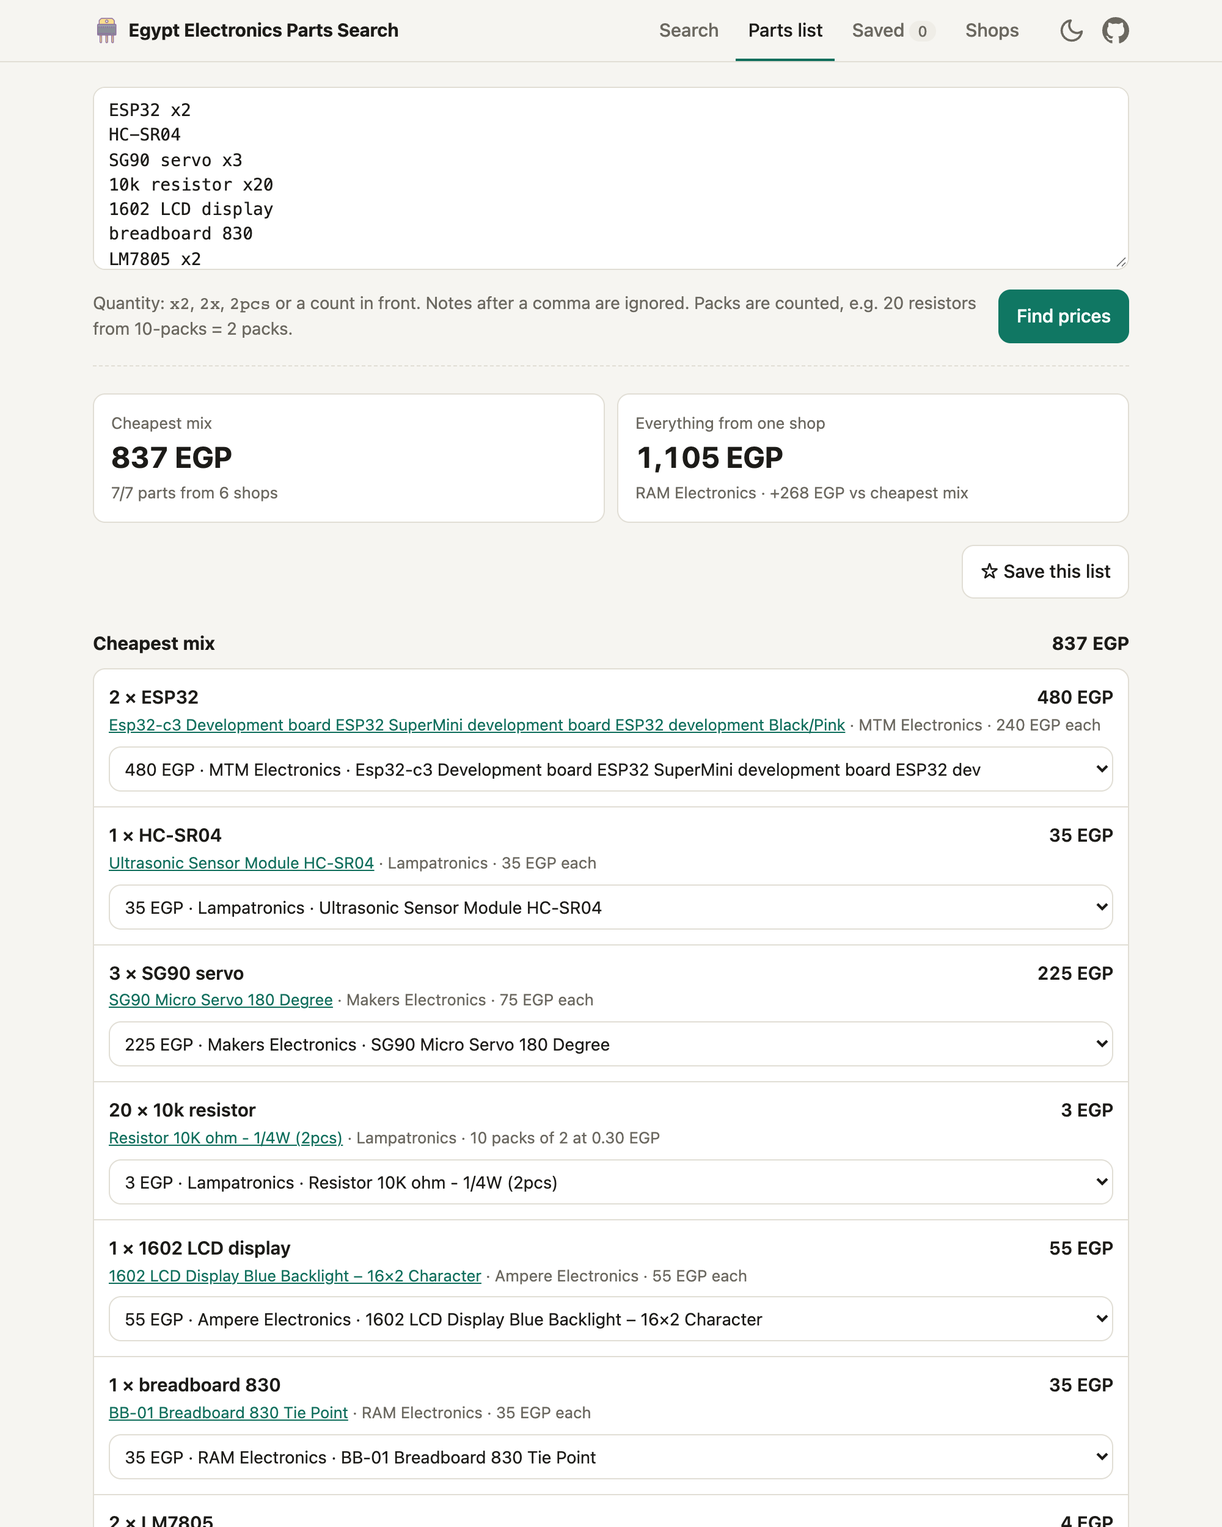
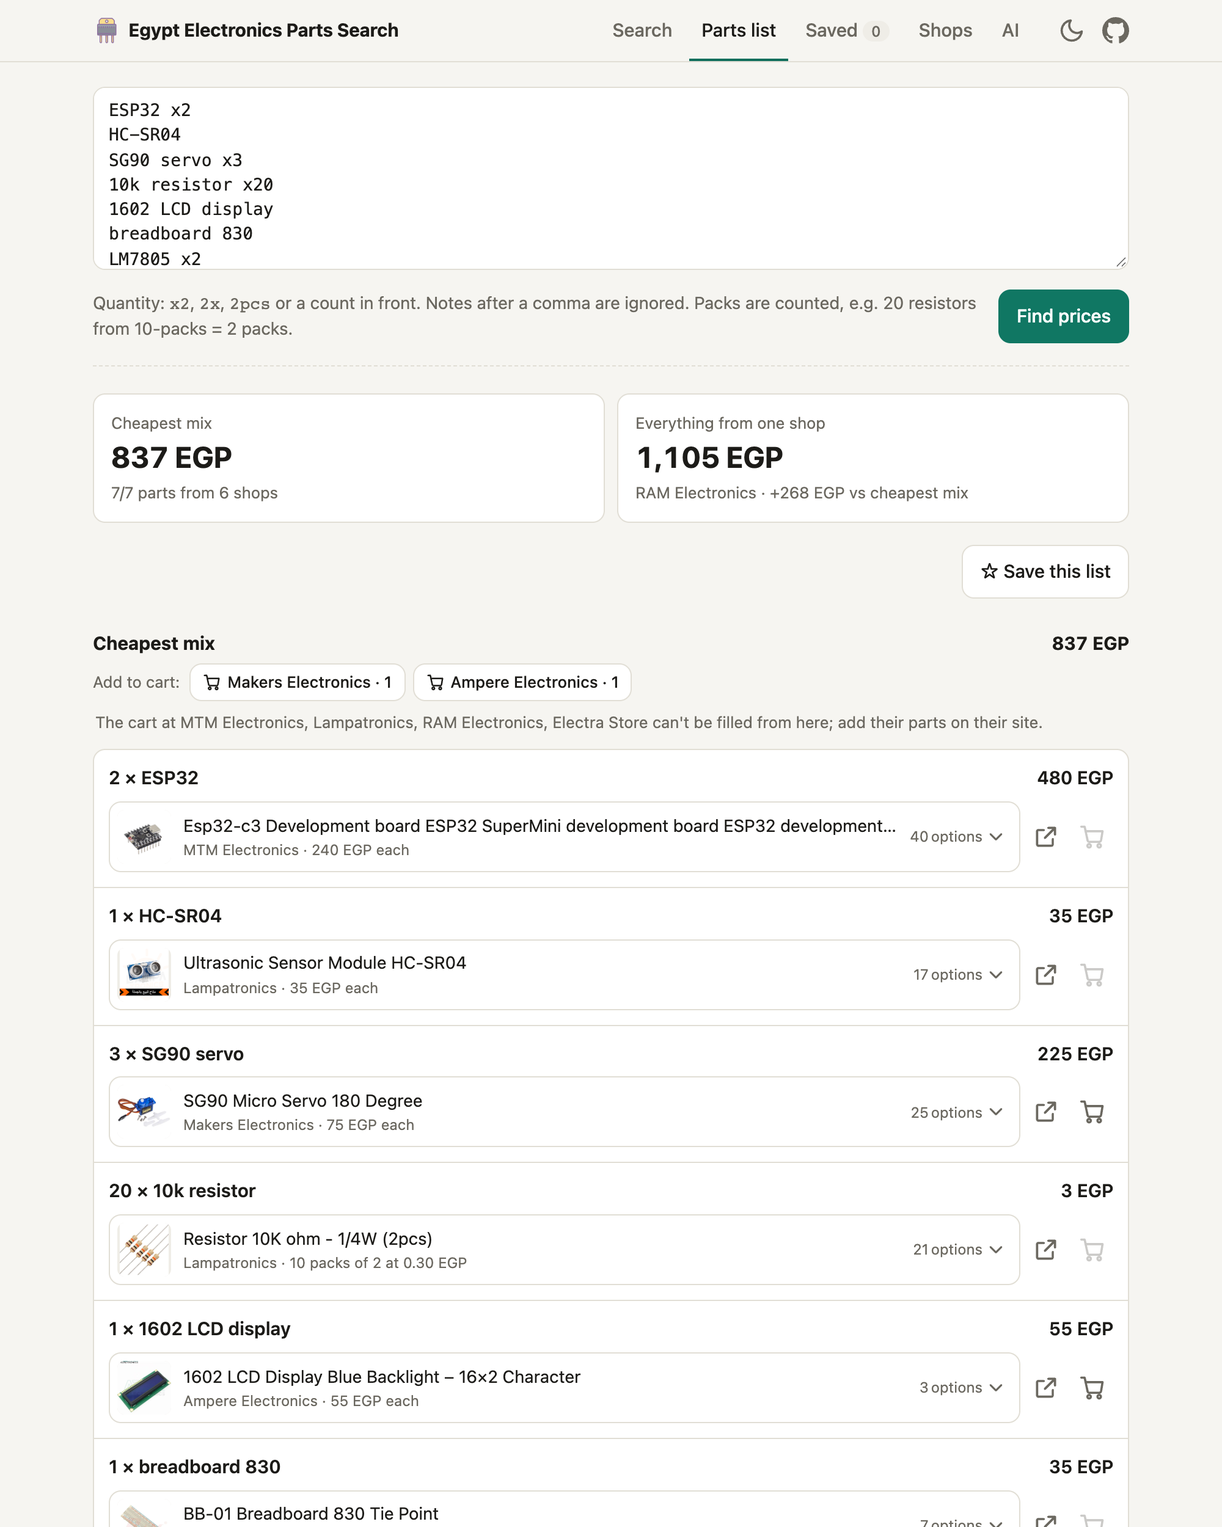
Parts list: a searchable product picker with pictures and costs, and a cart button on each line; retake the screenshots

diff --git a/src/index.html b/src/index.html
@@ -328,6 +328,8 @@
   .cart-bar .btn, .cart-cell .btn { display: inline-flex; align-items: center; gap: 5px; white-space: nowrap; }
   td.cart-cell { width: 1%; padding: 5px 8px; }
   .cart-note:empty { display: none; }
+  .mix-cart { margin-bottom: 12px; }
+  .mix-cart .cart-bar { margin-bottom: 0; }
   h2.with-copy { display: flex; align-items: center; gap: 4px; margin: 0; color: var(--text); font-size: 15px; }
   h2.with-copy .icon-btn { padding: 4px; }
   h2.with-copy .icon-btn svg { width: 18px; height: 18px; }
@@ -364,7 +366,49 @@
   .line-head { display: flex; gap: 8px; align-items: baseline; justify-content: space-between; }
   .line-head .q { font-weight: 600; }
   .line-head .cost { font-variant-numeric: tabular-nums; font-weight: 600; white-space: nowrap; }
-  .line select { width: 100%; margin-top: 8px; padding: 8px; font-size: 14px; }
+  .icon-btn.cart-off { position: relative; cursor: default; }
+  .icon-btn.cart-off svg { opacity: .35; }
+  .icon-btn.cart-off:hover { background: none; color: var(--muted); }
+  /* a tooltip above the button, kept inside the card by lining up on the right */
+  [data-tip]:hover::after, [data-tip]:focus-visible::after {
+    content: attr(data-tip); position: absolute; bottom: calc(100% + 6px); right: 0; z-index: 7;
+    width: max-content; max-width: 240px; padding: 6px 9px; border-radius: 6px;
+    background: var(--text); color: var(--bg); font-size: 12px; line-height: 1.4; text-align: left; white-space: normal;
+    pointer-events: none;
+  }
+  .list:has([data-tip]:hover), .list:has([data-tip]:focus-visible) { overflow: visible; }
+  .choice-row { position: relative; display: flex; align-items: center; gap: 4px; margin-top: 8px; }
+  .choice {
+    flex: 1; min-width: 0; display: flex; align-items: center; gap: 10px; padding: 6px 10px 6px 6px;
+    border: 1px solid var(--border); border-radius: var(--radius); background: var(--surface); text-align: left; font-size: 14px;
+  }
+  button.choice { cursor: pointer; }
+  button.choice:hover, button.choice[aria-expanded="true"] { border-color: var(--accent); }
+  .choice .thumb { width: 44px; height: 44px; flex: none; border-radius: 6px; }
+  .choice-text { flex: 1; min-width: 0; display: flex; flex-direction: column; gap: 1px; }
+  .choice-name { overflow: hidden; text-overflow: ellipsis; white-space: nowrap; }
+  .choice-meta { color: var(--muted); font-size: 12px; }
+  .choice-more { flex: none; display: flex; align-items: center; gap: 2px; color: var(--muted); font-size: 12px; white-space: nowrap; }
+  .choice-more svg { width: 18px; height: 18px; transition: transform .15s; }
+  .choice[aria-expanded="true"] .choice-more svg { transform: rotate(180deg); }
+  .picker {
+    position: absolute; top: calc(100% + 4px); left: 0; right: 0; z-index: 4; padding: 8px;
+    background: var(--surface); border: 1px solid var(--border); border-radius: var(--radius);
+    box-shadow: 0 10px 30px rgba(0, 0, 0, .16);
+  }
+  .picker-search { width: 100%; padding: 8px 10px; font-size: 14px; }
+  .picker-list { max-height: min(380px, 55vh); overflow-y: auto; margin-top: 6px; overscroll-behavior: contain; }
+  .opt-group { padding: 8px 8px 4px; color: var(--muted); font-size: 11px; font-weight: 600; text-transform: uppercase; letter-spacing: .04em; }
+  .opt { display: grid; grid-template-columns: 40px minmax(0, 1fr) auto; gap: 10px; align-items: center; padding: 6px 8px; border-radius: 8px; cursor: pointer; }
+  .opt.active { background: var(--surface-2); }
+  .opt .thumb { width: 40px; height: 40px; border-radius: 6px; }
+  .opt-name { font-size: 14px; display: -webkit-box; -webkit-line-clamp: 2; -webkit-box-orient: vertical; overflow: hidden; }
+  .opt-meta { color: var(--muted); font-size: 12px; }
+  .opt-cost { text-align: right; white-space: nowrap; font-variant-numeric: tabular-nums; font-size: 14px; }
+  .opt-check { display: block; color: var(--accent); font-size: 12px; font-weight: 600; }
+  .opt[aria-selected="true"] .opt-cost b { color: var(--accent); }
+  .picker-empty { padding: 18px 8px; text-align: center; color: var(--muted); font-size: 14px; }
+  .list:has(.picker) { overflow: visible; }
   .line .meta a { color: var(--accent); }
 
   .shop-mark {
@@ -420,6 +464,7 @@
     header nav { order: 2; width: 100%; justify-content: space-between; overflow-x: auto; }
     nav a { padding-left: 6px; padding-right: 6px; }
     .row { grid-template-columns: 64px 1fr auto; gap: 10px; }
+    .choice-word { position: absolute; width: 1px; height: 1px; overflow: hidden; clip-path: inset(50%); }
     .thumb { width: 64px; height: 64px; }
   }
   @media (max-width: 360px) {
@@ -594,7 +639,7 @@ npm install</code></pre>
 </script>
 <script type="module">
 import { SHOPS, SHOPS_BY_KEY } from "./js/shops.js";
-import { searchAll, fetchShop, mergeShop, priceList, cheapestPicks, shopTotals, lineCost, packsNeeded, warmUp, getSaved, saveItem as storeItem, unsaveItem as storeUnsave, deleteItem, refreshItems, saveList as storeList, addToList, renameList, deleteList } from "./js/search.js";
+import { searchAll, fetchShop, mergeShop, priceList, cheapestPicks, isClose, shopTotals, lineCost, packsNeeded, warmUp, getSaved, saveItem as storeItem, unsaveItem as storeUnsave, deleteItem, refreshItems, saveList as storeList, addToList, renameList, deleteList } from "./js/search.js";
 
 const $ = (s, el = document) => el.querySelector(s);
 const esc = s => String(s ?? "").replace(/[&<>"']/g, c => ({ "&": "&amp;", "<": "&lt;", ">": "&gt;", '"': "&quot;", "'": "&#39;" }[c]));
@@ -1083,6 +1128,7 @@ const findable = () => listData.lines.filter(l => l.candidates.length).length;
 
 function renderList() {
   const out = $("#list-out");
+  picker = null; // redrawing removes an open picker
   const lines = listData.lines;
   let mixTotal = 0;
   const mixShops = new Set();
@@ -1126,7 +1172,7 @@ function renderList() {
     </div>
 
     <h2 class="with-total">${mixLabel} <span class="total">${money(mixTotal)}</span></h2>
-    ${byShop.size ? `<div data-cart-area>
+    ${byShop.size ? `<div class="mix-cart" data-cart-area>
       <div class="cart-bar">
         ${cartable.length ? `<span class="label">Add to cart:</span>` : ""}
         ${cartable.map(([k, e]) => `<button type="button" class="btn small" data-cart-mix="${esc(k)}" title="Add ${e.length === 1 ? "this part" : `these ${e.length} parts`} to the cart at ${esc(SHOPS_BY_KEY[k].name)}, in a new tab">${CART_ICON}<span>${esc(SHOPS_BY_KEY[k].name)} · ${e.length}</span></button>`).join("")}
@@ -1155,8 +1201,10 @@ function renderList() {
     <p class="hint">Shop totals use the same close matches as the picks above${found < lines.length ? " and skip parts no shop has" : ""}. Shipping isn't included.${listData.left_out ? ` Only the first ${lines.length} lines were priced; ${listData.left_out} more ${listData.left_out === 1 ? "was" : "were"} left out.` : ""}</p>
   `;
 
-  out.querySelectorAll("select[data-line]").forEach(sel => {
-    sel.onchange = () => { picks[+sel.dataset.line] = +sel.value; renderList(); };
+  // without hover (phones) there is no tooltip, so a tap says it instead
+  if (matchMedia("(hover: none)").matches) out.querySelectorAll(".cart-off").forEach(b => { b.onclick = () => toast(b.dataset.tip); });
+  out.querySelectorAll("[data-pick]").forEach(b => {
+    b.onclick = () => (picker?.trigger === b ? closePicker() : openPicker(+b.dataset.pick, b));
   });
   $("#list-save").onclick = saveList;
   out.querySelectorAll("[data-cart-mix]").forEach(b => { b.onclick = () => startCart(b, b.dataset.cartMix, byShop.get(b.dataset.cartMix)); });
@@ -1169,23 +1217,145 @@ function lineRow(line, i) {
     return `<div class="line"><div class="line-head"><span class="q">${line.qty} × ${esc(line.query)}</span><span class="badge bad">Not found</span></div>
       <div class="meta">No shop has this in stock. Try a different name or part number.</div></div>`;
   }
+  const n = line.candidates.length;
   const packs = packsNeeded(line, c);
+  // this line's product and quantity (in packs) into its shop's cart
+  const cart = c.cart ? SHOPS_BY_KEY[c.shop]?.cartSteps?.([{ ...c, qty: packs }])[0] : null;
+  const chosen = `${thumb(c)}
+    <span class="choice-text">
+      <span class="choice-name">${esc(c.name)}</span>
+      <span class="choice-meta">${esc(c.shop_name)} · ${priceDetail(line, c)}</span>
+    </span>`;
   return `
     <div class="line">
       <div class="line-head">
         <span class="q">${line.qty} × ${esc(line.query)} ${line.weak ? '<span class="badge warn">Check match</span>' : ""}</span>
         <span class="cost">${money(lineCost(line, c))}</span>
       </div>
-      <div class="meta">
-        <a href="${esc(safeUrl(c.url))}" target="_blank" rel="noopener">${esc(c.name)}</a> · ${esc(c.shop_name)} ·
-        ${c.pack > 1 ? `${packs} pack${packs === 1 ? "" : "s"} of ${c.pack} at ${money(c.price)}` : `${money(c.price)} each`}
+      <div class="choice-row">
+        ${n > 1
+          ? `<button type="button" class="choice" data-pick="${i}" aria-haspopup="listbox" aria-expanded="false">${chosen}
+              <span class="choice-more">${n}<span class="choice-word"> options</span><span class="sr-only"> for ${esc(line.query)}</span>
+                <svg viewBox="0 0 24 24" fill="none" stroke="currentColor" stroke-width="2" stroke-linecap="round" stroke-linejoin="round" aria-hidden="true"><path d="m6 9 6 6 6-6"/></svg></span>
+            </button>`
+          : `<div class="choice">${chosen}</div>`}
+        <a class="icon-btn" href="${esc(safeUrl(c.url))}" target="_blank" rel="noopener" title="Open at ${esc(c.shop_name)}" aria-label="Open ${esc(c.name)} at ${esc(c.shop_name)}">
+          <svg viewBox="0 0 24 24" fill="none" stroke="currentColor" stroke-width="2" stroke-linecap="round" stroke-linejoin="round" aria-hidden="true"><path d="M14 4h6v6M20 4l-9 9M18 14v5a1 1 0 0 1-1 1H5a1 1 0 0 1-1-1V7a1 1 0 0 1 1-1h5"/></svg>
+        </a>
+        ${cart
+          ? `<a class="icon-btn" href="${esc(cart)}" target="_blank" rel="noopener" title="Add ${packs === 1 ? "it" : packs} to the cart at ${esc(c.shop_name)}" aria-label="Add ${esc(c.name)} to the cart at ${esc(c.shop_name)}">${CART_ICON}</a>`
+          // shown faded, with a tooltip saying why; on a phone, a tap shows it
+          : `<button type="button" class="icon-btn cart-off" aria-disabled="true" data-tip="${esc(noCart(c))}" aria-label="${esc(noCart(c))}">${CART_ICON}</button>`}
       </div>
-      ${line.candidates.length > 1 ? `
-        <select data-line="${i}" aria-label="Choose product for ${esc(line.query)}">
-          ${line.candidates.map((o, j) => `<option value="${j}" ${j === picks[i] ? "selected" : ""}>${esc(money(lineCost(line, o)))} · ${esc(o.shop_name)} · ${esc(o.name.slice(0, 70))}</option>`).join("")}
-        </select>` : ""}
     </div>`;
 }
+
+// why a product can't go into its shop's cart from here
+const noCart = c => cartShop(c.shop) ? "We can't add this one: it has options to choose" : "We can't add to cart for this store";
+
+// "4 EGP each", or for a pack "2 packs of 10 at 5 EGP"
+function priceDetail(line, c) {
+  const packs = packsNeeded(line, c);
+  return c.pack > 1 ? `${packs} pack${packs === 1 ? "" : "s"} of ${c.pack} at ${money(c.price)}` : `${money(c.price)} each`;
+}
+
+/* ---------- parts-list product picker ---------- */
+// A line's products in a dropdown with a filter: close matches first, then the others, each
+// cheapest first for the quantity. The filter box is a combobox: the arrow keys move through
+// the products, Enter picks one, Escape closes.
+let picker = null; // the open one: { i, el, trigger, order, active }
+
+function closePicker(refocus) {
+  if (!picker) return;
+  const { el, trigger } = picker;
+  picker = null;
+  el.remove();
+  trigger.setAttribute("aria-expanded", "false");
+  if (refocus) trigger.focus();
+}
+
+function openPicker(i, trigger) {
+  closePicker();
+  const line = listData.lines[i];
+  const el = document.createElement("div");
+  el.className = "picker";
+  el.innerHTML = `
+    <input type="search" class="picker-search" placeholder="Filter by name or shop" autocomplete="off"
+      role="combobox" aria-expanded="true" aria-controls="picker-list" aria-autocomplete="list" aria-label="Filter the products for ${esc(line.query)}">
+    <div class="picker-list" id="picker-list" role="listbox" aria-label="Products for ${esc(line.query)}"></div>`;
+  trigger.after(el);
+  trigger.setAttribute("aria-expanded", "true");
+  const input = el.querySelector("input");
+  const list = el.querySelector(".picker-list");
+  picker = { i, el, trigger, order: [], active: 0 };
+
+  const option = (c, j) => `
+    <div class="opt" role="option" id="opt-${j}" data-j="${j}" aria-selected="${j === picks[i]}">
+      ${thumb(c)}
+      <div class="opt-main">
+        <div class="opt-name">${esc(c.name)}</div>
+        <div class="opt-meta">${esc(c.shop_name)} · ${priceDetail(line, c)}${c.old_price ? ' · <span class="badge sale">Sale</span>' : ""}${j === defaultPicks[i] ? ' · <span class="badge good">Cheapest</span>' : ""}</div>
+      </div>
+      <div class="opt-cost"><b>${money(lineCost(line, c))}</b>${j === picks[i] ? '<span class="opt-check">✓ Picked</span>' : ""}</div>
+    </div>`;
+  const setActive = (n) => {
+    if (!picker.order.length) return;
+    picker.active = Math.max(0, Math.min(n, picker.order.length - 1));
+    list.querySelectorAll(".opt.active").forEach(o => o.classList.remove("active"));
+    const o = list.querySelector(`#opt-${picker.order[picker.active]}`);
+    o.classList.add("active");
+    o.scrollIntoView({ block: "nearest" });
+    input.setAttribute("aria-activedescendant", o.id);
+  };
+  const draw = () => {
+    const words = input.value.toLowerCase().split(/\s+/).filter(Boolean);
+    const byCost = (a, b) => lineCost(line, a.c) - lineCost(line, b.c);
+    const shown = line.candidates.map((c, j) => ({ c, j }))
+      .filter(({ c }) => words.every(w => `${c.name} ${c.shop_name}`.toLowerCase().includes(w)));
+    const close = shown.filter(o => isClose(line, o.c)).sort(byCost);
+    const other = shown.filter(o => !isClose(line, o.c)).sort(byCost);
+    picker.order = [...close, ...other].map(o => o.j);
+    const group = (title, opts) => opts.length ? `<div class="opt-group" role="presentation">${title} · ${opts.length}</div>${opts.map(o => option(o.c, o.j)).join("")}` : "";
+    list.innerHTML = shown.length
+      ? group("Close matches", close) + group(close.length ? "Other results" : "Results", other)
+      : `<div class="picker-empty">No products match “${esc(input.value)}”.</div>`;
+    input.removeAttribute("aria-activedescendant");
+    const current = picker.order.indexOf(picks[i]);
+    setActive(current >= 0 ? current : 0);
+  };
+  const choose = (j) => {
+    picks[i] = j;
+    closePicker();
+    renderList();
+    $(`#list-out [data-pick="${i}"]`)?.focus();
+  };
+
+  input.addEventListener("input", draw);
+  input.addEventListener("keydown", (e) => {
+    const page = 6;
+    const moves = { ArrowDown: 1, ArrowUp: -1, PageDown: page, PageUp: -page };
+    if (e.key in moves) { e.preventDefault(); setActive(picker.active + moves[e.key]); }
+    else if (e.key === "Enter") { e.preventDefault(); if (picker.order.length) choose(picker.order[picker.active]); }
+    else if (e.key === "Escape") { e.preventDefault(); closePicker(true); }
+    else if (e.key === "Tab") closePicker();
+  });
+  list.addEventListener("pointermove", (e) => {
+    const o = e.target.closest(".opt");
+    if (o) setActive(picker.order.indexOf(+o.dataset.j));
+  });
+  list.addEventListener("click", (e) => {
+    const o = e.target.closest(".opt");
+    if (o) choose(+o.dataset.j);
+  });
+  draw();
+  input.focus({ preventScroll: true });
+  el.scrollIntoView({ block: "nearest" });
+}
+
+// a click anywhere else closes the picker
+document.addEventListener("pointerdown", (e) => {
+  if (picker && !picker.el.contains(e.target) && !picker.trigger.contains(e.target)) closePicker();
+});
 
 async function saveList() {
   const name = prompt("Name this list", "Parts list " + new Date().toLocaleDateString());

diff --git a/mcp/server.js b/mcp/server.js
@@ -32,7 +32,7 @@ const SITE = "https://parts.ahmedshaalan.com";
 const SHOP_KEYS = SHOPS.map((s) => s.key);
 
 const server = new McpServer(
-  { name: "egypt-parts", version: "1.5.0" },
+  { name: "egypt-parts", version: "1.6.0" },
   {
     instructions: [
       `Searches ${SHOPS.length} Egyptian electronics shops at once (the same search as ${SITE}).`,

diff --git a/README.md b/README.md
@@ -42,11 +42,11 @@ Egypt Electronics Parts Search asks every shop at once, recognizes those names a
 - Paste a parts list, one part per line, and get the **cheapest mix** across shops and the **best single shop** to buy everything from
 - A table of each shop's total and exactly which parts it's missing
 - Counts packs: 20 resistors sold in 2-packs = 10 packs
-- If the tool picked the wrong product for a line, choose another from its dropdown and the totals recalculate
+- If the tool picked the wrong product for a line, open its picker and choose another: every option shows its picture, shop, pack size and cost for your quantity, close matches first, with a box to filter by name or shop. The totals recalculate
 
 **🛒 Add to the shop's cart**
 - Put a search result straight into its shop's cart, in a new tab that opens on the cart
-- From a parts list, fill each shop's cart with your picks (the cheapest mix or the ones you chose), or with everything one shop has, quantities included
+- From a parts list, add one line's pick, fill each shop's cart with your picks (the cheapest mix or the ones you chose), or with everything one shop has, quantities included
 - Works at the 10 Shopify and WooCommerce shops (Future, DevBoards, Makers, Micro Ohm, Most, UGE, Ampere, Free, HD and Circuit); checkout stays on the shop's own site
 
 **⭐ Save and track**
@@ -111,7 +111,8 @@ Bullets and numbering are ignored, `#` lines are treated as comments, and names 
 - **Cheapest mix:** for each part, the cheapest close match from any shop.
 - **Everything from one shop:** the cheapest shop that has every part, and how much more it costs than the mix. Buying from one shop usually saves on shipping, which isn't included in either total.
 - **Total by shop:** every shop's total, with the parts it's missing.
-- **Add to cart:** under the mix, one button per shop puts your picks from that shop into its cart; each row of **Total by shop** has an **Add** button that puts everything that shop has from the list into its cart. The cart opens in a new tab, with each part's quantity (counting packs). A Shopify shop takes the whole list at once; a WooCommerce shop takes one product per link, so the tab adds them one after another and ends on the cart. Products with options to choose (a size, a colour) have to be added on the shop's page, and the page says which.
+- **Change a pick:** each line shows its product (picture, name, shop and price). Click it to see the other options, close matches first and each sorted by the cost for your quantity, with a box to filter by name or shop; the cheapest is tagged. Arrow keys and Enter work too. ↗ opens the product at its shop.
+- **Add to cart:** the cart button on a line puts that line's product into its shop's cart (a faded cart means that shop can't be filled from here; hover it to see why). Under the mix, one button per shop puts your picks from that shop into its cart; each row of **Total by shop** has an **Add** button that puts everything that shop has from the list into its cart. The cart opens in a new tab, with each part's quantity (counting packs). A Shopify shop takes the whole list at once; a WooCommerce shop takes one product per link, so the tab adds them one after another and ends on the cart. Products with options to choose (a size, a colour) have to be added on the shop's page, and the page says which.
 
 ### Saved
 
@@ -346,7 +347,7 @@ class MyShop extends Shop {
 
 ## Limitations
 
-- **Matching is heuristic.** It handles part numbers well. Vague names like "LCD" or "sensor" need a glance at the pick, and some accessories still slip through as a strong match (for example, an I2C adapter board for `16x2 LCD`). The dropdown on each parts-list line is there for exactly this.
+- **Matching is heuristic.** It handles part numbers well. Vague names like "LCD" or "sensor" need a glance at the pick, and some accessories still slip through as a strong match (for example, an I2C adapter board for `16x2 LCD`). The picker on each parts-list line is there for exactly this.
 - **Shipping isn't included** in any total.
 - **Add to cart works at 10 of the 16 shops**, and not for products with options to choose. Some products are only sold in multiples ("order in tens"); the cart then gets the next amount the shop accepts. Prices in the cart are the shop's current ones, which may have changed since the search.
 - **Shops change.** A site redesign or platform switch can break its connector. The shop then shows as `failed` rather than returning wrong data.
@@ -375,7 +376,7 @@ No framework, no build step, no dependencies.
 
 ## Changelog
 
-What changed and when is in [CHANGELOG.md](CHANGELOG.md). Each version there is a git tag, so a copy of the MCP server can be kept on a known version (`git checkout v1.5.0`) or updated with `git pull`.
+What changed and when is in [CHANGELOG.md](CHANGELOG.md). Each version there is a git tag, so a copy of the MCP server can be kept on a known version (`git checkout v1.6.0`) or updated with `git pull`.
 
 ## Feedback
 

diff --git a/CHANGELOG.md b/CHANGELOG.md
@@ -1,6 +1,16 @@
 # Changelog
 
-What changed on [parts.ahmedshaalan.com](https://parts.ahmedshaalan.com/), newest first. The site is updated as changes land. Each entry is also a git tag (`v1.5.0`), which is the version to use if you run the [MCP server](mcp/) or your own copy.
+What changed on [parts.ahmedshaalan.com](https://parts.ahmedshaalan.com/), newest first. The site is updated as changes land. Each entry is also a git tag (`v1.6.0`), which is the version to use if you run the [MCP server](mcp/) or your own copy.
+
+## 1.6.0 · 2026-09-21
+
+### Added
+- Each parts-list line has its own cart button, next to a ↗ link to the product. For a shop whose cart can't be filled from here, the cart is faded and a tooltip says so.
+
+### Changed
+- A parts-list line shows its product as a card (picture, name, shop, price), and changing it opens a proper picker instead of a plain dropdown: a box to filter by name or shop, close matches first, each option with its picture, shop, pack size and cost for your quantity, and the cheapest tagged. It works with the arrow keys and Enter.
+- A little more room under the note about shops whose cart can't be filled from here.
+- New screenshots in the README.
 
 ## 1.5.0 · 2026-09-21
 
